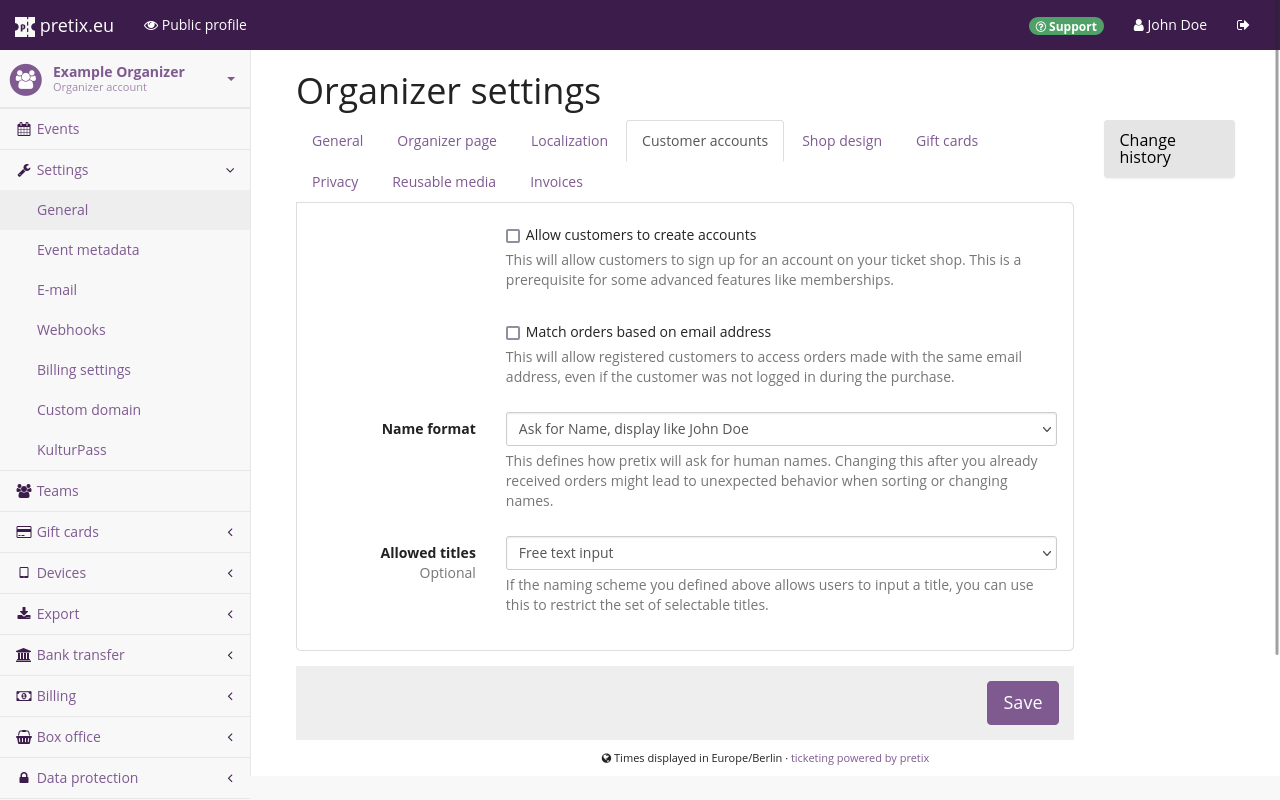
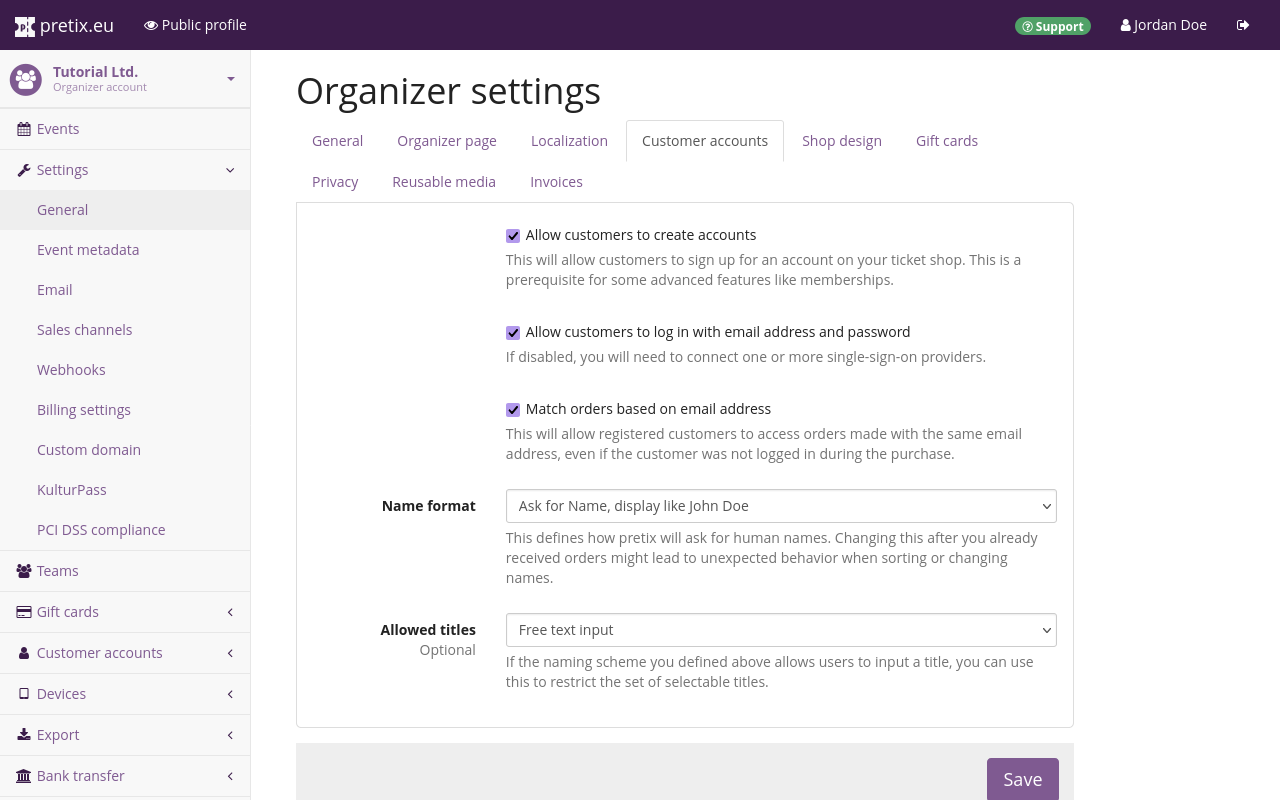
add and update screenshots

diff --git a/docs/guides/products/index.md b/docs/guides/products/index.md
@@ -115,9 +115,6 @@ If you have different opening times on different days of the week, you will need
 Under "Quotas, create one or multiple quotas. 
 These quotas determine how many people can book a ticket for each time slot. 
 If you want each time slot to be attended by a maximum of 50 people, set the "Total capacity" to `50`
-
-![](../../assets/screens/products/timeslots_create_31.png "Timeslots create 31")
-
 Once you are happy with your choices, click the :btn:Save: button. 
 
 !!! Note
@@ -132,11 +129,9 @@ For an event series or time slot booking, it makes sense to enable the "Week cal
 In order to do so, navigate to :navpath:Your Event → :fa3-wrench: Settings → General:. 
 Open the :btn:Display: tab and set "Default overview style" to "Week calendar":
 
-![](../../assets/screens/products/timeslots_settings_11.png "Timeslots settings 11")
+![Page displaying the headline 'Calendar list and views'. Under 'Default overview style', the option 'Week calendar' has been selected.](../../assets/screens/event-series/calendar-views.png "Display–Calendar list and views")
 
 Your ticket shop will now display a weekly overview over all time slots and their availability. 
-
-![](../../assets/screens/products/timeslots_presale1.png "Timeslots presale 1")
 
 #### Check-in
 
@@ -153,7 +148,7 @@ Click :btn-icon:fa3-plus-circle: Add condition: again and select "Current date a
 Click :btn-icon:fa3-plus-circle: Add condition: again and select "Current date and time", then "is before", then "Event end". 
 You can leave the "Tolerance (minutes)" fields empty or specify a tolerance of a few minutes for some leniency. 
 
-![Custom check-in rule page set up according to the instructions above.](../../assets/screens/products/timeslots_checkinlists1.png "Timeslots check-in lists 1")
+![Custom check-in rule page set up according to the instructions above.](../../assets/screens/products/time-slot-check-in-rule.png "Custom check-in rule")
 
 With these two restrictions, customers can only access your event during the time slot for which they bought a ticket. 
 Once you are happy with your choices, click the :btn:Save: button. 
@@ -189,7 +184,7 @@ Option A requires customers to be identified with a customer account.
 Thus, you first need to enable the customer accounts feature in your organizer settings in the "Customer accounts" tab. 
 See also: [Customer accounts](../customer-accounts.md) 
 
-![](../../assets/screens/products/seasontickets_orgsettings1.png "Season tickets organizer settings 1")
+![Organizer settings page, on the Customer accounts tab. The boxes next to 'Allow customers to create accounts', 'Allow customers to create accounts', and 'Allow customers to log in with email address and password' have been checked.](../../assets/screens/organizer/customer-accounts.png "Organizer settings–Customer accounts")
 
 Once you have done that, navigate to :navpath:Your organizer → :fa3-user: Customer accounts → Membership types:. 
 Click the :btn-icon:fa3-plus: Create a new membership type: button. 
@@ -202,7 +197,7 @@ If you want to limit the membership to a certain number of purchases, specify th
 If you want to allow unlimited purchases within the specified time frame, leave this field empty. 
 Once you are happy with your choices, click the :btn:Save: button. 
 
-![](../../assets/screens/products/seasontickets_membershiptype1.png "Season tickets membership type 1")
+![Page titled Create a new membership type. The name is specified as Season pass 2027-1. The boxes next to 'Membership is transferable' and 'Parallel usage is allowed' are checked. The 'Maximum usages' field is empty.](../../assets/screens/products/membership-type.png "Create a new membership type")
 
 Once you have created the membership type, you also need a way to sell these memberships. 
 Create a new event with start and end dates corresponding to the duration of the season for which you want to sell season passes. 
@@ -214,7 +209,7 @@ Under "This product creates a membership of type", select the membership you jus
 By default, the next to "The duration of the membership is the same as the duration of the event or event series date" is checked. 
 If you are selling multiple time-based passes with different periods of validity which do not match the duration of the event, uncheck the box. 
 
-![](../../assets/screens/products/seasontickets_issue1.png "Season tickets issue 1")
+![Page titled Modify product: Season pass, on the Additional settings tab. Under 'This product creates a membership of type', the membership 'Season pass 2027-1' is selected. The checkbox next to ' The duration of the membership is the same as the duration of the event or event series date' is checked.](../../assets/screens/products/product-creates-membership.png "Modify product: Season pass")
 
 In order to prevent customers from confusing their season pass with their ticket, it makes sense to disable ticket downloads. 
 Navigate to :navpath:Your event → :fa3-wrench: Settings: and uncheck the box next to "Allow users to download tickets". 
@@ -223,11 +218,12 @@ Once the season pass shop has been set up, you need to create free products that
 Clone an existing admission ticket, append a descriptor such as "for season ticket holders" to the name, and set the price to zero. 
 Click the :btn:Save and continue with more settings: button and then open the :btn:Availability: tab. 
 Check the box next to "Require a valid membership" and select the membership type you created. 
+If you want to display this product only to customers who already have an active membership in your shop, check the box next to "Hide without a valid membership". 
 
 Repeat these steps for every product you want to make available for free for season pass holders. 
 If you want season pass holders to be able to attend multiple of your events for free, repeat these steps for every applicable event. 
 
-![](../../assets/screens/products/seasontickets_require1.png "Season tickets require 1")
+![Page displaying the option 'Require a valid membership', which is checked, and 'Allowed membership types', under which 'Season pass 2027-1' is selected. The box next to 'Hide without a valid membership' is checked.](../../assets/screens/products/require.png "Require a valid membership")
 
 #### Option B: All-access in a single pass
 
